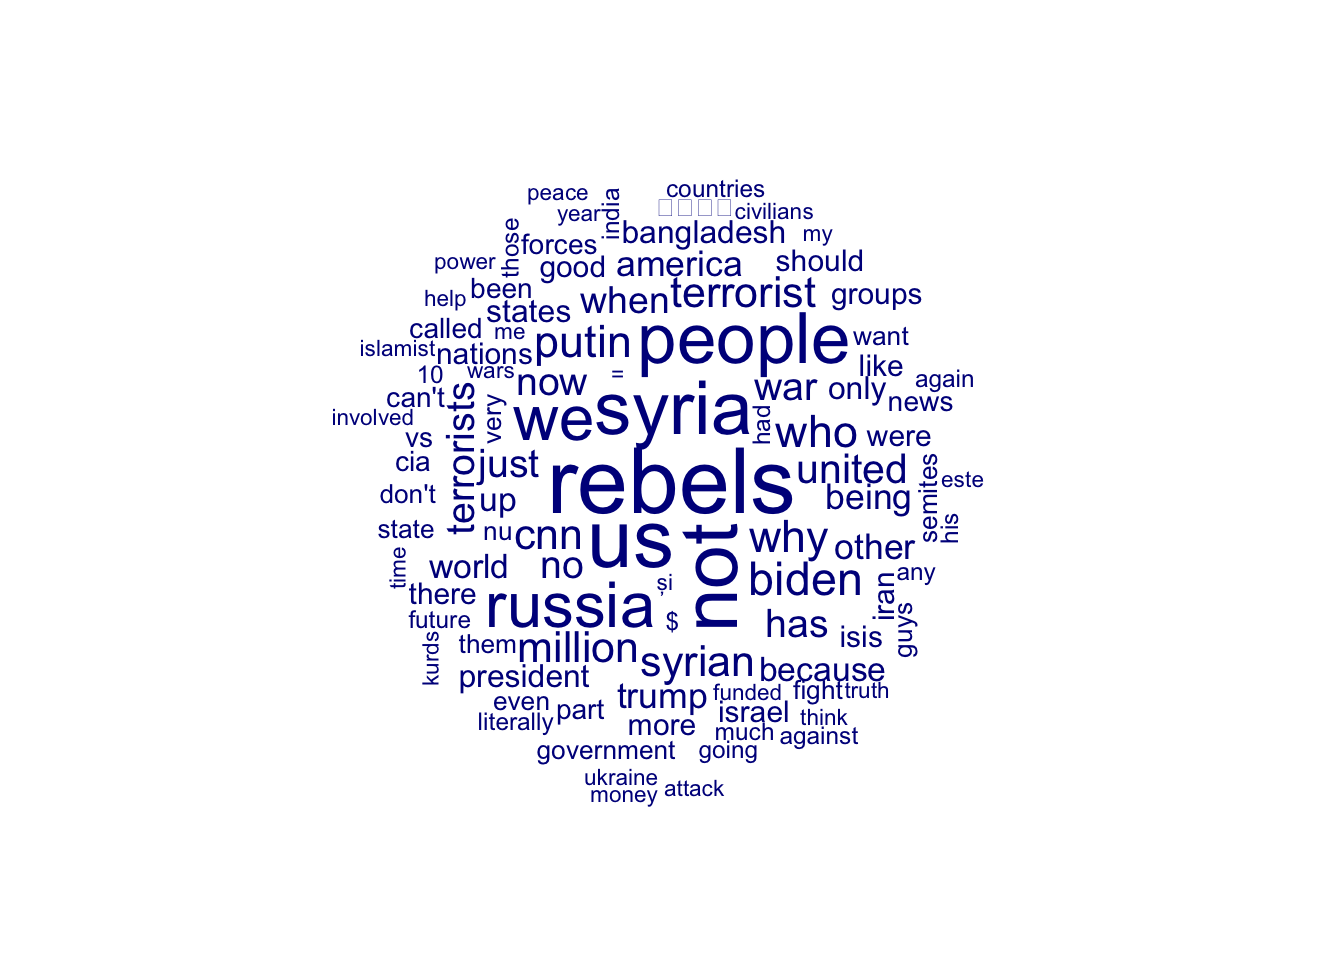
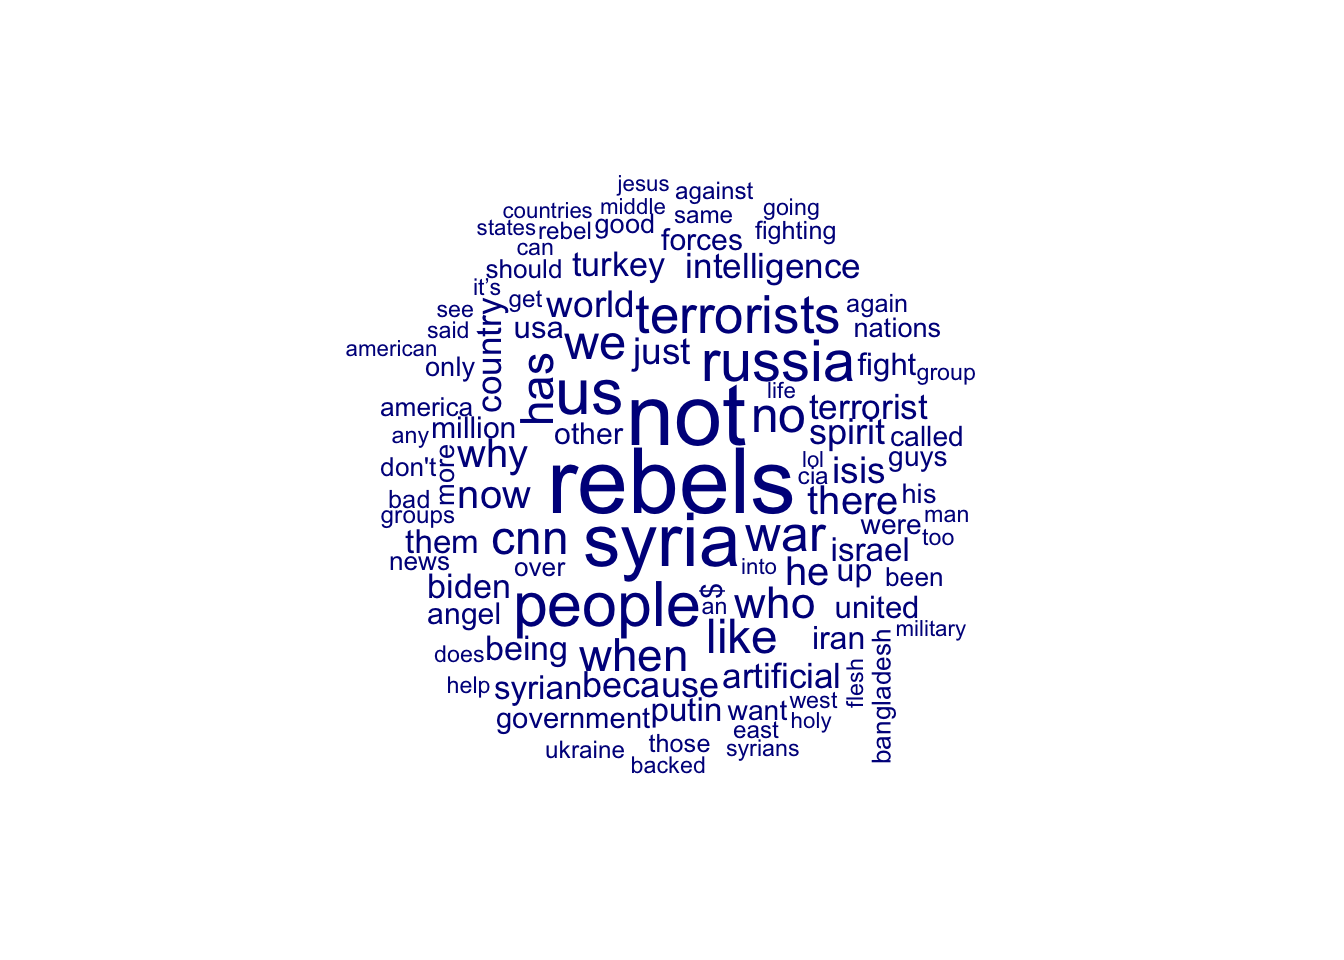
Add files via upload

Changed region(s): [[0.25, 0.1875, 0.7188, 0.8438]]

diff --git a/assignment5.html b/assignment5.html
@@ -149,6 +149,10 @@ pre > code.sourceCode > span > a:first-child::before { text-decoration: underlin
     <a class="dropdown-item" href="./assignment5.html">
  <span class="dropdown-text">Assignment 5</span></a>
   </li>  
+        <li>
+    <a class="dropdown-item" href="./final_project.html">
+ <span class="dropdown-text">Final Project</span></a>
+  </li>  
     </ul>
   </li>
   <li class="nav-item dropdown ">
@@ -243,19 +247,19 @@ pre > code.sourceCode > span > a:first-child::before { text-decoration: underlin
 <div class="cell">
 <div class="cell-output cell-output-stdout">
 <pre><code>     video_id                channelId
-1 6WK0V1bva8o UCXIJgqnII2ZOINSWNOGFThA
-2 K011VEt08Gs UCupvZG-5ko_eiXAupbDfxWw
-3 Pwn8LVR7Ufc UC_gUM8rL-Lrg6O3adPW9K1g
-4 SMXJ-qx54x4 UCLXo7UDZvByw2ixzpQCufnA
-5 kvsfmJI5nJU UCBi2mrWuNuyYy4gbM6fU18Q
-6 9olb6OvXjKg UCupvZG-5ko_eiXAupbDfxWw
-                                                                                title
-1                          Flashback: The biggest &amp;#39;political turkeys&amp;#39; of 2024
-2 Trump announces he intends to replace current FBI director with loyalist Kash Patel
-3             Donald Trump&amp;#39;s Warning To BRICS Nation Including India | World News
-4                                       America’s shift to the right, in data #shorts
-5                                          How Harris or Trump could win the election
-6                                 Trump wins 2024 presidential election, CNN projects</code></pre>
+1 1DjhOk0nrpA UC_gUM8rL-Lrg6O3adPW9K1g
+2 M4bJYlyK6ms UCupvZG-5ko_eiXAupbDfxWw
+3 ZvAth0bni08 UCTvZcgH_rsvaGuZ8mU5jpnA
+4 Pwn8LVR7Ufc UC_gUM8rL-Lrg6O3adPW9K1g
+5 SMXJ-qx54x4 UCLXo7UDZvByw2ixzpQCufnA
+6 3yWTbnviLUE UCO0akufu9MOzyz3nvGIXAAw
+                                                                             title
+1            USA News: Kamala Harris Team Still Raising Funds? | World News | WION
+2 Democratic lawmaker: Hunter Biden&amp;#39;s pardon &amp;#39;will be used against us&amp;#39;
+3                                Trump responds to Biden pardoning his son, Hunter
+4          Donald Trump&amp;#39;s Warning To BRICS Nation Including India | World News
+5                                    America’s shift to the right, in data #shorts
+6            Donald Trump ensuring Hamas will ‘pay the price’ for holding hostages</code></pre>
 </div>
 </div>
 <div class="sourceCode" id="cb3" style="color: gray"><pre class="sourceCode r code-with-copy"><code class="sourceCode r"><span id="cb3-1"><a href="#cb3-1" aria-hidden="true" tabindex="-1"></a><span class="co"># Extract titles and clean up</span></span>
@@ -344,13 +348,13 @@ pre > code.sourceCode > span > a:first-child::before { text-decoration: underlin
 <div class="cell">
 <div class="cell-output cell-output-stdout">
 <pre><code>Channel Title: CNN 
-No. of Views: 17001855278 
+No. of Views: 17009316432 
 No. of Subscribers: 17300000 
-No. of Videos: 168244 </code></pre>
+No. of Videos: 168275 </code></pre>
 </div>
 <div class="cell-output cell-output-stdout">
 <pre><code>$viewCount
-[1] "17001855278"
+[1] "17009316432"
 
 $subscriberCount
 [1] "17300000"
@@ -359,7 +363,7 @@ $hiddenSubscriberCount
 [1] FALSE
 
 $videoCount
-[1] "168244"</code></pre>
+[1] "168275"</code></pre>
 </div>
 </div>
 <div class="sourceCode" id="cb9" style="color: gray"><pre class="sourceCode r code-with-copy"><code class="sourceCode r"><span id="cb9-1"><a href="#cb9-1" aria-hidden="true" tabindex="-1"></a>video_id <span class="ot">=</span>  <span class="st">"Yzb5LGwt6LA"</span></span>
@@ -380,28 +384,28 @@ $videoCount
 [1] "Yzb5LGwt6LA"
 
 $viewCount
-[1] "26481"
+[1] "145812"
 
 $likeCount
-[1] "754"
+[1] "1590"
 
 $favoriteCount
 [1] "0"
 
 $commentCount
-[1] "359"</code></pre>
+[1] "700"</code></pre>
 </div>
 </div>
 <div class="sourceCode" id="cb12" style="color: gray"><pre class="sourceCode r code-with-copy"><code class="sourceCode r"><span id="cb12-1"><a href="#cb12-1" aria-hidden="true" tabindex="-1"></a>videocomments <span class="ot">&lt;-</span> <span class="fu">get_all_comments</span>(video_id)</span>
 <span id="cb12-2"><a href="#cb12-2" aria-hidden="true" tabindex="-1"></a><span class="fu">head</span>(videocomments)</span></code><button title="Copy to Clipboard" class="code-copy-button"><i class="bi"></i></button></pre></div>
 <div class="cell">
 <div class="cell-output cell-output-stdout">
-<pre><code>[1] "Rebels? Don't you mean Turkish backed former Al-Quaeda Jihadists ?"                                                                                                                                                                                                                                
-[2] "I strongly demand to apply to the United Nations on behalf of Bangladesh, to send the peacekeeping force of the United Nations to India. Muslims and Christians are being killed indiscriminately, everyone's houses are being destroyed, and the High Commission of Bangladesh is being attacked."
-[3] "I strongly demand to apply to the United Nations on behalf of Bangladesh, to send the peacekeeping force of the United Nations to India. Muslims and Christians are being killed indiscriminately, everyone's houses are being destroyed, and the High Commission of Bangladesh is being attacked."
-[4] "I strongly demand to apply to the United Nations on behalf of Bangladesh, to send the peacekeeping force of the United Nations to India. Muslims and Christians are being killed indiscriminately, everyone's houses are being destroyed, and the High Commission of Bangladesh is being attacked."
-[5] "PRESIDENT DONALD J TRUMP 🇺🇸"                                                                                                                                                                                                                                                                       
-[6] "he hee CNN os only focus blame Israel,,CNN dont know anythings related movement of this rebels group..15 million displacement in Yaman, couple of million lost their life in Syria, Afgan, Iran and others,,However CNN just blame Israel because Israel retaliated of hamas massacre ,,sorry CNN" </code></pre>
+<pre><code>[1] "IN SYRIA SEEMS SUFIANI RULER (ENEMY OF IMAM MAHDI ALAIHISSALAM) COMING BY BACKING OF WEST ! \"HE WILL HAVE  THREE STICKS\" INDICATES THREE FORCES - LAND , AIR AND NAVAL . HE WILL CONQUER EGYPT TOO ."                    
+[2] "Anyone remember that place was full of snipers?"                                                                                                                                                                           
+[3] "Usually cnn knows about these things before they happen?? If you go by title.. surprisingly surprised cnn.."                                                                                                               
+[4] "\"their various bakers\"\nWtf r u talking about??!!!"                                                                                                                                                                      
+[5] "طبيعي ان نرى قلعت حلب عندما يعود الغرب لعصورهم الوصطى ويحتل القدس  الصليبيين اليهود😂"                                                                                                                                     
+[6] "I wonder who is financing those rebels. Pretty sure that they were a part of Al Qaeda once. In the end it does not matter. The result stays the same. Many innocent people will suffer for the political gains of the few."</code></pre>
 </div>
 </div>
 <div class="sourceCode" id="cb14" style="color: gray"><pre class="sourceCode r code-with-copy"><code class="sourceCode r"><span id="cb14-1"><a href="#cb14-1" aria-hidden="true" tabindex="-1"></a><span class="fu">library</span>(quanteda)</span>
@@ -453,34 +457,34 @@ $commentCount
 <h3 class="anchored" data-anchor-id="can-you-use-quanteda-to-analyze-the-text-data-from-youtube-comments">Can you use quanteda to analyze the text data from YouTube comments?</h3>
 <div class="cell">
 <div class="cell-output cell-output-stdout">
-<pre><code>      feature frequency rank docfreq group
-1      rebels        43    1      39   all
-2          us        38    2      29   all
-3         not        36    3      33   all
-4       syria        34    4      28   all
-5      people        32    5      19   all
-6          we        28    6      23   all
-7      russia        28    6      25   all
-8       biden        19    8      13   all
-9         why        18    9      16   all
-10        who        18    9      18   all
-11      putin        18    9      14   all
-12        cnn        17   12       9   all
-13    million        17   12       4   all
-14     syrian        17   12      11   all
-15  terrorist        17   12      10   all
-16     united        16   16       6   all
-17       just        15   17      13   all
-18        war        15   17      15   all
-19        now        15   17      15   all
-20        has        15   17      13   all
-21 terrorists        15   17      13   all
-22         no        15   17      12   all
-23       when        14   23      12   all
-24      being        13   24       5   all
-25      trump        13   24      11   all
-26      other        13   24      12   all
-27    america        13   24      13   all</code></pre>
+<pre><code>        feature frequency rank docfreq group
+1        rebels        81    1      74   all
+2           not        76    2      67   all
+3         syria        64    3      53   all
+4            us        54    4      45   all
+5        people        52    5      31   all
+6        russia        47    6      38   all
+7    terrorists        42    7      33   all
+8           war        39    8      35   all
+9            no        39    8      29   all
+10           we        38   10      31   all
+11          cnn        37   11      28   all
+12         like        37   11      30   all
+13          has        35   13      20   all
+14         when        35   13      30   all
+15          who        33   15      31   all
+16           he        29   16      18   all
+17          why        29   16      27   all
+18        there        29   16      25   all
+19          now        29   16      27   all
+20         just        26   20      24   all
+21         isis        26   20      24   all
+22        world        26   20      22   all
+23      because        25   23      20   all
+24       spirit        25   23       2   all
+25    terrorist        24   25      18   all
+26   artificial        24   25       1   all
+27 intelligence        24   25       1   all</code></pre>
 </div>
 </div>
 <div class="sourceCode" id="cb16" style="color: gray"><pre class="sourceCode r code-with-copy"><code class="sourceCode r"><span id="cb16-1"><a href="#cb16-1" aria-hidden="true" tabindex="-1"></a><span class="co"># Visualize the Most Frequent Words</span></span>

diff --git a/assignment3.html b/assignment3.html
@@ -101,6 +101,7 @@ pre > code.sourceCode > span > a:first-child::before { text-decoration: underlin
   }
 }</script>
 <link href="https://cdn.jsdelivr.net/npm/bootstrap@5.3.0-alpha1/dist/css/bootstrap.min.css" rel="stylesheet">
+<link href="https://cdnjs.cloudflare.com/ajax/libs/font-awesome/6.0.0-beta3/css/all.min.css" rel="stylesheet">
 
 
 <link rel="stylesheet" href="styles.css">
@@ -148,26 +149,38 @@ pre > code.sourceCode > span > a:first-child::before { text-decoration: underlin
     <a class="dropdown-item" href="./assignment5.html">
  <span class="dropdown-text">Assignment 5</span></a>
   </li>  
+        <li>
+    <a class="dropdown-item" href="./final_project.html">
+ <span class="dropdown-text">Final Project</span></a>
+  </li>  
     </ul>
   </li>
   <li class="nav-item dropdown ">
-    <a class="nav-link dropdown-toggle" href="#" id="nav-menu-final-project" role="link" data-bs-toggle="dropdown" aria-expanded="false">
- <span class="menu-text">Final Project</span>
+    <a class="nav-link dropdown-toggle" href="#" id="nav-menu-epss-6302-final-project" role="link" data-bs-toggle="dropdown" aria-expanded="false">
+ <span class="menu-text">EPSS 6302 Final Project</span>
     </a>
-    <ul class="dropdown-menu" aria-labelledby="nav-menu-final-project">    
+    <ul class="dropdown-menu" aria-labelledby="nav-menu-epss-6302-final-project">    
         <li>
-    <a class="dropdown-item" href="./EPPS6302FinalProjects.html">
- <span class="dropdown-text">EPPS 6302 Final Project</span></a>
+    <a class="dropdown-item" href="./EPPS_Final_Project_Paper.pdf">
+ <span class="dropdown-text">Final Project Paper <i class="fa fa-external-link" aria-hidden="true"></i></span></a>
+  </li>  
+        <li>
+    <a class="dropdown-item" href="./The_Correlation_Between_Google_Trends_Drop_Rate_and_IMDb_Ratings.pdf">
+ <span class="dropdown-text">Final Presentation <i class="fa fa-external-link" aria-hidden="true"></i></span></a>
   </li>  
         <li>
     <a class="dropdown-item" href="./EPPS6302_finalproject_code.pdf">
- <span class="dropdown-text">EPPS 6302 Code</span></a>
+ <span class="dropdown-text">Movie Collection Code (R) <i class="fa fa-external-link" aria-hidden="true"></i></span></a>
+  </li>  
+        <li>
+    <a class="dropdown-item" href="./Stata_Data_Analysis.pdf">
+ <span class="dropdown-text">Analysis Code (Stata) <i class="fa fa-external-link" aria-hidden="true"></i></span></a>
   </li>  
     </ul>
   </li>
   <li class="nav-item">
     <a class="nav-link" href="./oliver.myers.uxr.cv.2024.pdf"> 
-<span class="menu-text">CV</span></a>
+<span class="menu-text">CV <i class="fa fa-external-link" aria-hidden="true"></i></span></a>
   </li>  
 </ul>
           </div> <!-- /navcollapse -->

diff --git a/assignment4.html b/assignment4.html
@@ -279,7 +279,7 @@ pre > code.sourceCode > span > a:first-child::before { text-decoration: underlin
 2 China                  Asia      East Asia $3,571,803       2024-10-31 21,957 
 3 Japan                  Asia      East Asia $1,238,950       2024-11-01 15,948 
 4 Switzerland            Europe    Western … $952,687         2024-09-30 1,127  
-5 India                  Asia      South As… $657,890         2024-11-15 17,700 
+5 India                  Asia      South As… $656,580         2024-11-22 1,310  
 6 Russia                 Europe    Eastern … $620,800         2024-11-08 11,900 
 # ℹ 4 more variables: Forexreswithoutgold &lt;chr&gt;, Date2 &lt;date&gt;, Change2 &lt;chr&gt;,
 #   Sources &lt;chr&gt;</code></pre>
@@ -387,7 +387,7 @@ pre > code.sourceCode > span > a:first-child::before { text-decoration: underlin
 [4] "BILLS-118hr8096ih"  "BILLS-118s4188is"   "BILLS-118hr7065ih" </code></pre>
 </div>
 <div class="cell-output cell-output-stdout">
-<pre><code>Time difference of 23.80154 secs</code></pre>
+<pre><code>Time difference of 27.12426 secs</code></pre>
 </div>
 <div class="cell-output cell-output-stdout">
 <pre><code>[1] "Files in the govtdata.assignent04 directory:"</code></pre>
